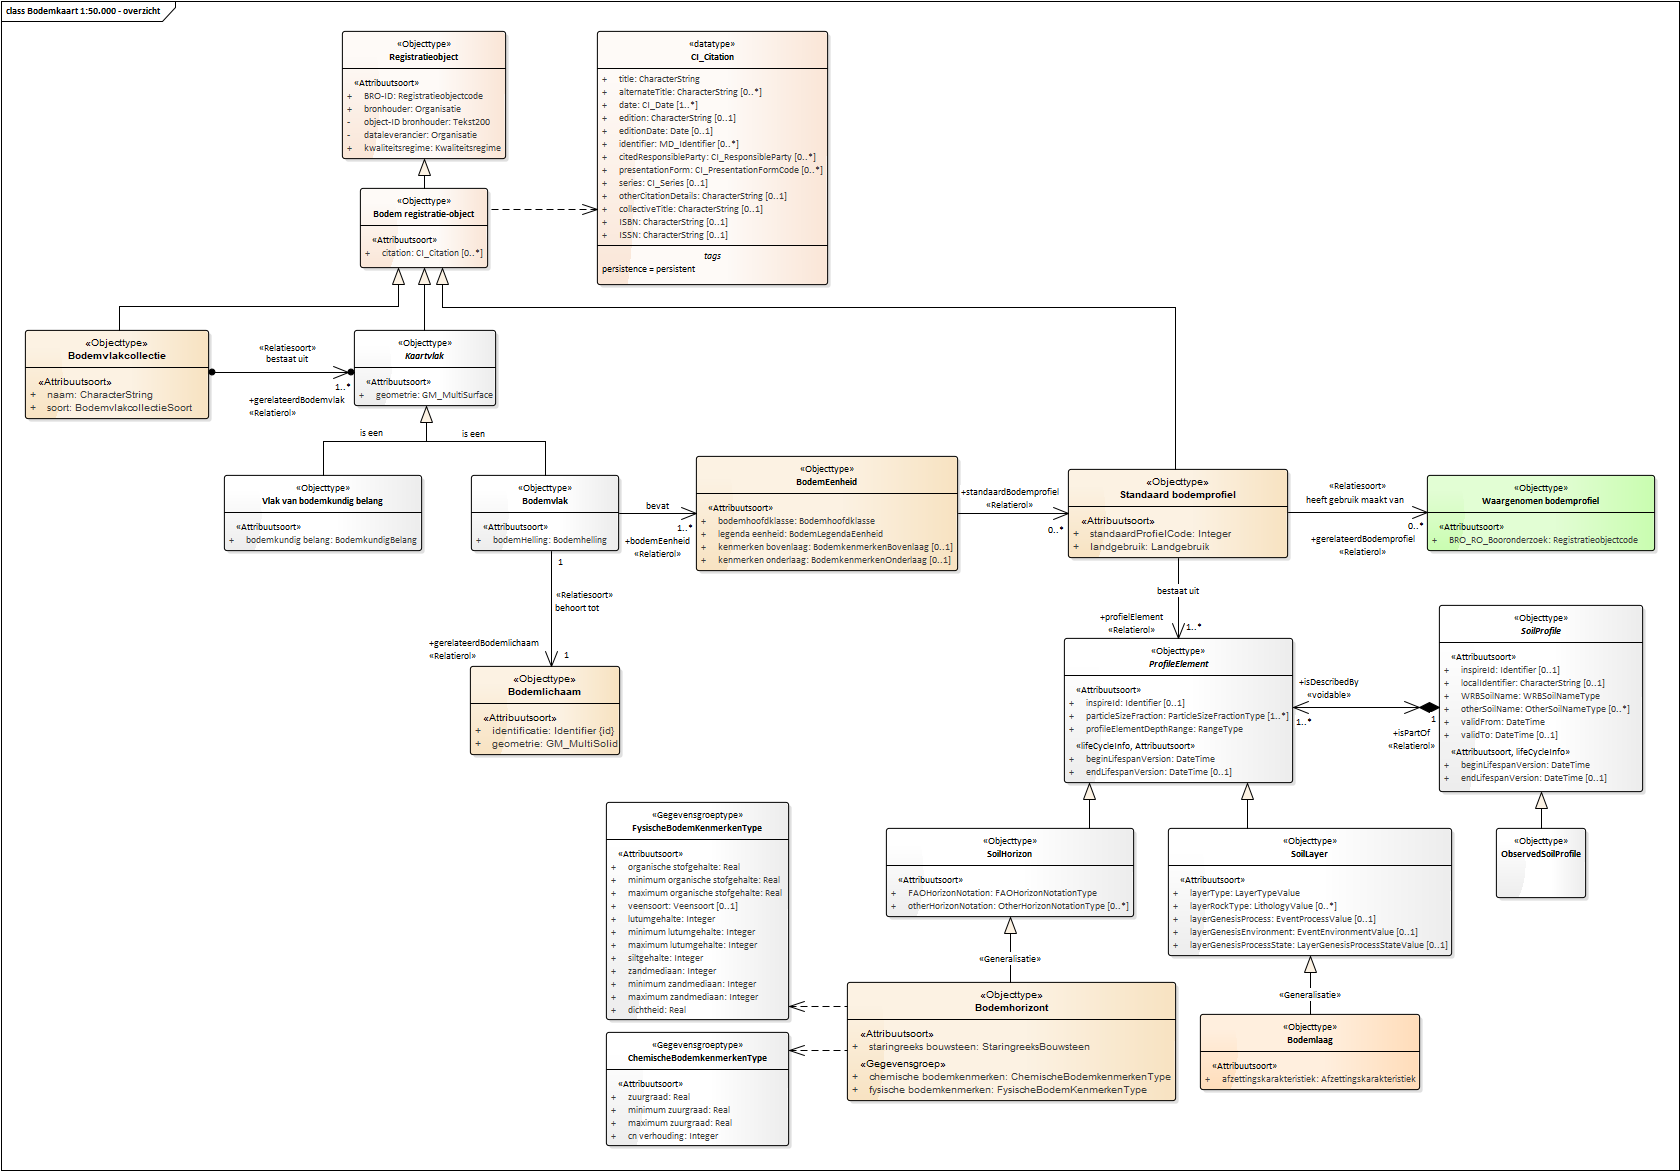
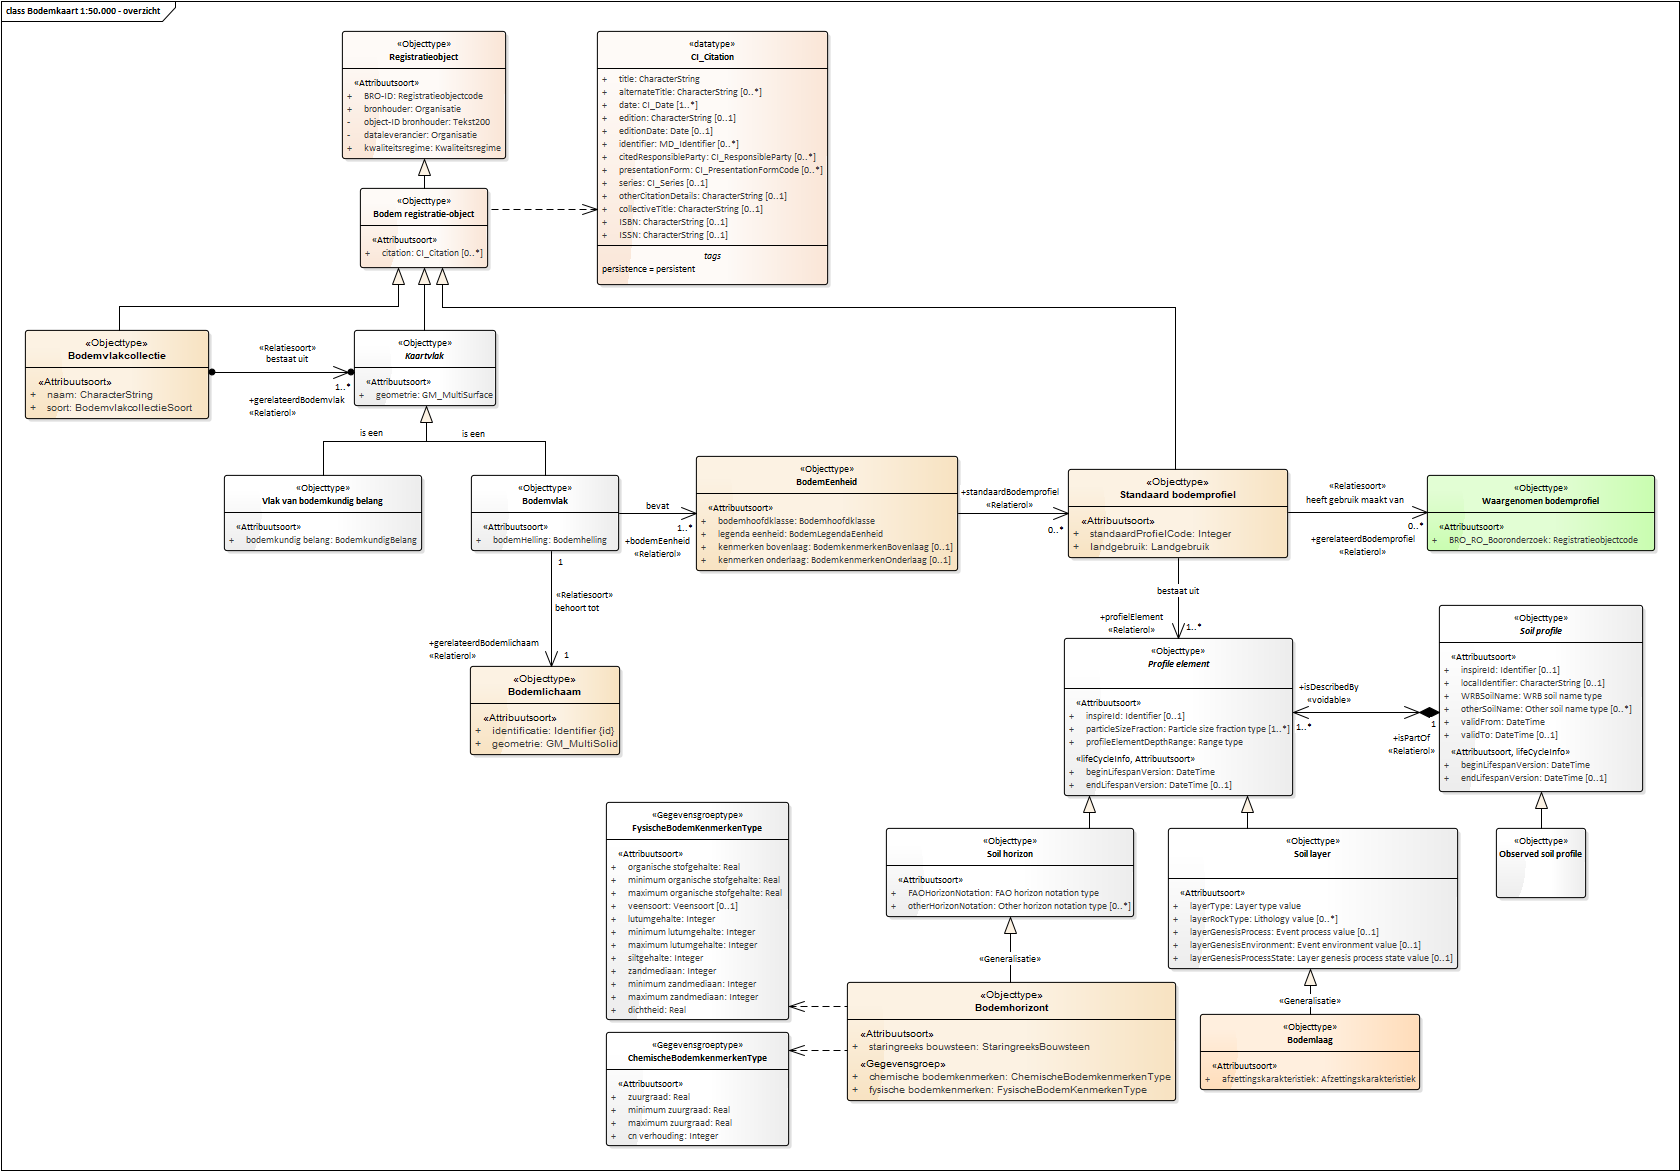
Conceptualmodel-BodemkaartSGM-1.0-1-20181205-20181205-160512

diff --git a/data/SGM-cat.html b/data/SGM-cat.html
@@ -1,10 +1,10 @@
 <h2>Catalogus</h2>
 <p class="note" title="Over deze catalogus">
    Deze catalogus is automatisch samengesteld op basis van het UML model 
-   "Bodemkaart (SGM)" door Imvertor 1.48.2 op December 5, 2018 at 14:38:55.
+   "Bodemkaart (SGM)" door Imvertor 1.48.2 op December 5, 2018 at 15:05:10.
    <br>
    Wanneer je technische fouten of onvolkomenheden aantreft, geef dit dan door aan <i></i> en geef de code 
-   <i>"Conceptualmodel-BodemkaartSGM-1.0-1-20181205-20181205-153857"</i> door. 
+   <i>"Conceptualmodel-BodemkaartSGM-1.0-1-20181205-20181205-160512"</i> door. 
    
 </p><a class="anchor" name="global_package_Brocommon"></a><section id="global_package_Brocommon">
    <h3>Domein brocommon</h3>
@@ -2060,7 +2060,8 @@
                      <a class="link" href="#detail_association_Model_StandaardBodemprofiel_profielElement">bestaat uit: profielElement</a>
                      
                      
-                     <a class="link" href="#global_class_INSPIRE_ProfileElement">ProfileElement</a>
+                     <a class="link" href="#global_class_INSPIRE_ProfileElement">Profile element
+                        </a>
                      
                      [ 1 .. * ]
                      
@@ -2508,11 +2509,15 @@
                      Bodemhorizont
                      is specialisatie van
                      
-                     <a class="link" href="#global_class_INSPIRE_SoilHorizon">SoilHorizon</a>
+                     <a class="link" href="#global_class_INSPIRE_SoilHorizon">Soil horizon</a>
                      
                      
                   </td>
-                  <td></td>
+                  <td>Domain of a soil with a certain vertical extension, more or less parallel to the surface
+                     and homogeneous for most morphological and analytical characteristics, developed in
+                     a parent material layer through pedogenic processes or made up of in-situ sedimented
+                     organic residues of up-growing plants (peat).
+                  </td>
                </tr>
             </tbody>
          </table>
@@ -2904,11 +2909,16 @@
                      Bodemlaag
                      is specialisatie van
                      
-                     <a class="link" href="#global_class_INSPIRE_SoilLayer">SoilLayer</a>
+                     <a class="link" href="#global_class_INSPIRE_SoilLayer">Soil layer
+                        </a>
                      
                      
                   </td>
-                  <td></td>
+                  <td>domain of a soil with a certain vertical extension developed through non-pedogenic
+                     processes, displaying a change in structure and/or composition to possibly over- or
+                     underlying adjacent domains, or a grouping of soil horizons or other sub-domains with
+                     a special purpose.
+                  </td>
                </tr>
             </tbody>
          </table>
@@ -3681,7 +3691,8 @@
                   <tr>
                      <th>Gerelateerd objecttype</th>
                      <td>
-                        <a class="link" href="#global_class_INSPIRE_ProfileElement">ProfileElement</a>
+                        <a class="link" href="#global_class_INSPIRE_ProfileElement">Profile element
+                           </a>
                         
                      </td>
                   </tr>
